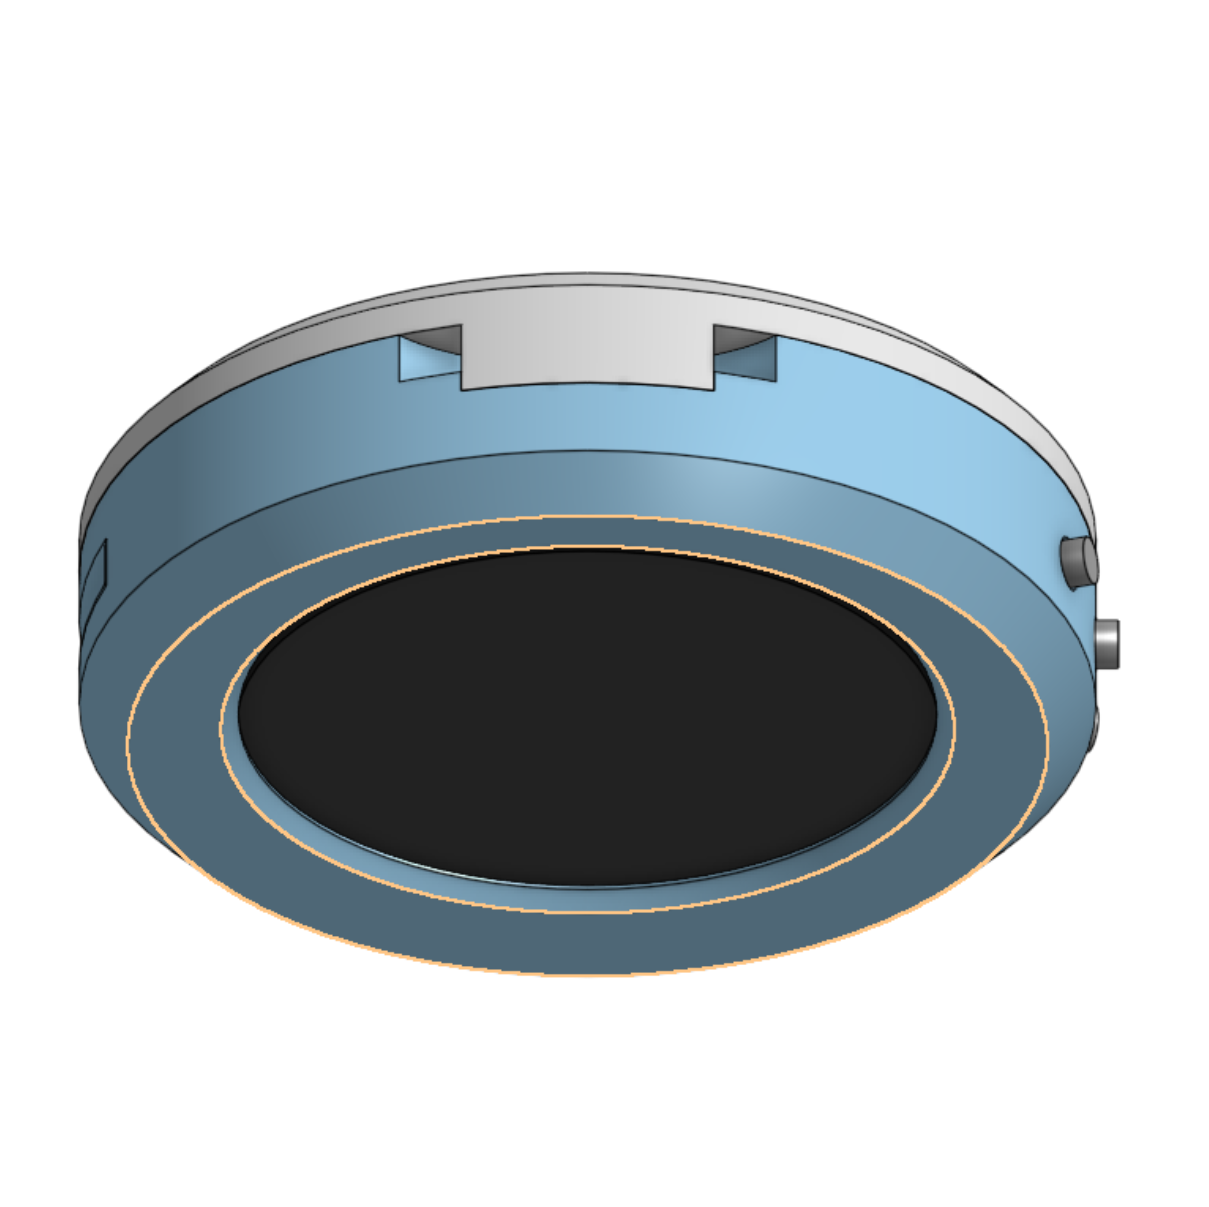
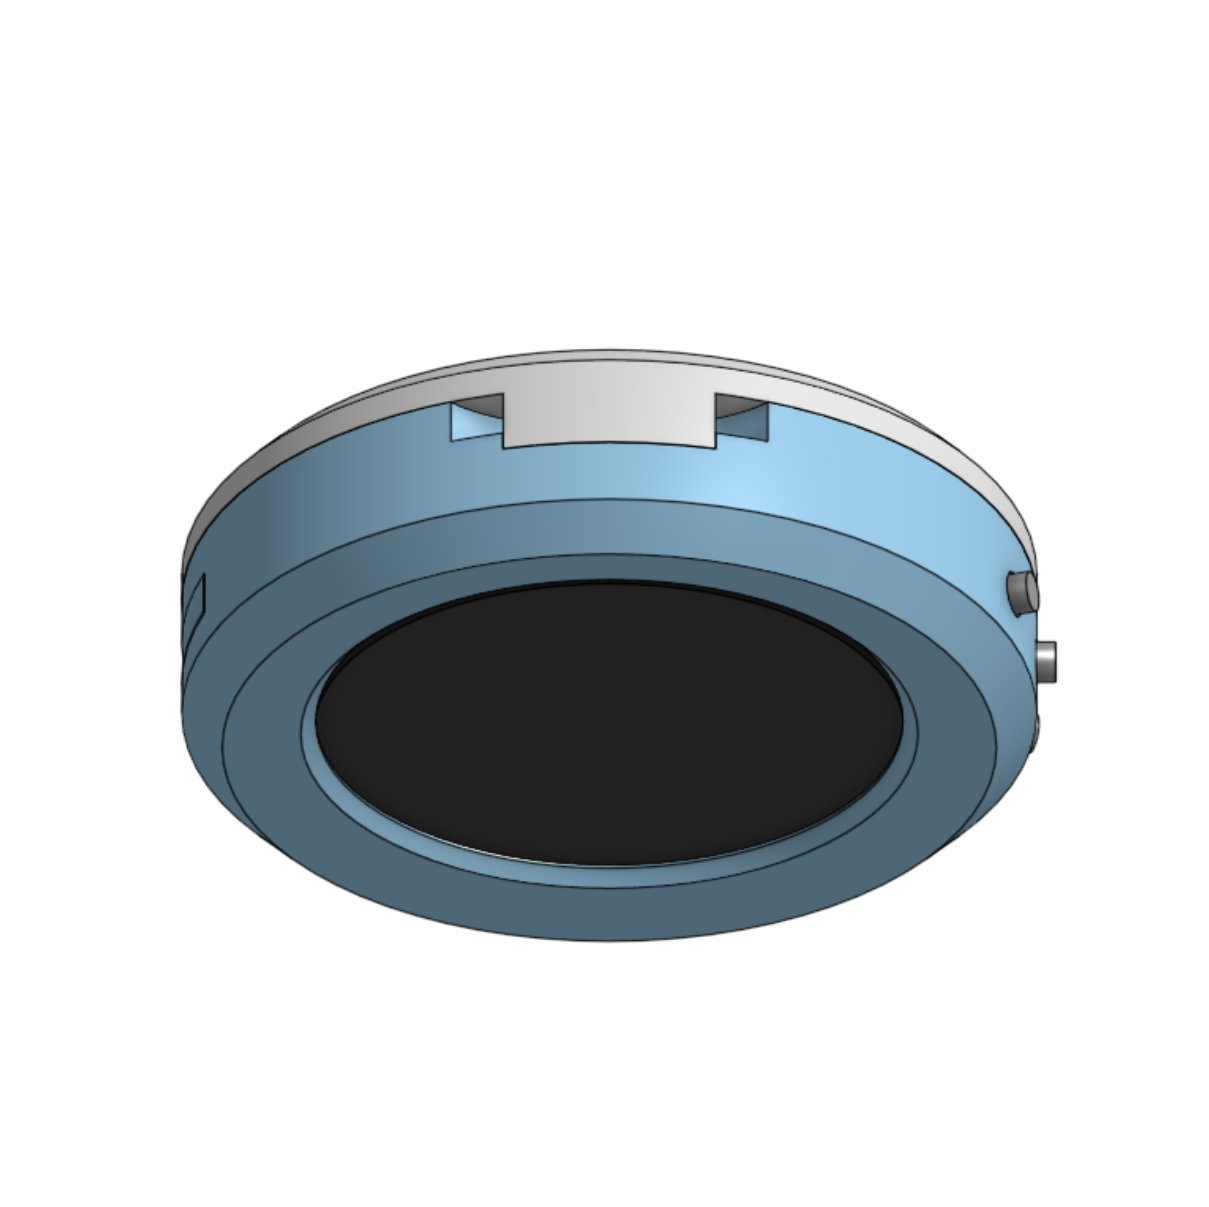
Add overview image and scale gallery

Changed region(s): [[0.0612, 0.2146, 0.9487, 0.8277]]

diff --git a/README.md b/README.md
@@ -1,5 +1,7 @@
 # ESP32 Board OS
 
+<img src="docs/LCD-Brosche-Ansicht.png" alt="Board overview" width="50%">
+
 Kompaktes Firmware-Projekt fuer ein ESP32-Devboard mit rundem GC9A01-TFT (240x240) und SD-Karte. Die Firmware stellt einen einfachen App-Manager bereit, der mehrere eigenstaendige Apps kapselt (z. B. eine Slideshow) und ueber zwei Hardware-Tasten gesteuert wird.
 
 ## Hardware
@@ -57,10 +59,10 @@ arduino-cli monitor -p /dev/ttyUSB0 -c baudrate=115200
 - [`docs/ESP32-1,28-Rund-TFT-Display-Board V1.12.pdf`](<docs/ESP32-1,28-Rund-TFT-Display-Board V1.12.pdf>) - Boarddatenblatt und Anschlussplan
 
 ### Hardwaregalerie
-![Frontansicht mit Buttons](docs/LCD-Brosche-vorne-Knoepfe.png)
-![Linke Seite mit SD-Karte](docs/LCD-Brosche-links-SD-Card.png)
-![Unterseite mit USB-C](docs/LCD-Brosche-unten-USB-C.png)
-![Oberseite mit Anhaenger](docs/LCD-Brosche-oben-Anhaenger.png)
+<img src="docs/LCD-Brosche-vorne-Knoepfe.png" alt="Front view with buttons" width="50%">
+<img src="docs/LCD-Brosche-links-SD-Card.png" alt="Left side with SD slot" width="50%">
+<img src="docs/LCD-Brosche-unten-USB-C.png" alt="Bottom with USB-C" width="50%">
+<img src="docs/LCD-Brosche-oben-Anhaenger.png" alt="Top with hanger" width="50%">
 
 ## Mitwirken & Naechste Schritte
 - Weitere Apps koennen als `Apps/<Name>App.h/.cpp` hinzugefuegt und in `ESP32-BoardOS.ino` registriert werden.
